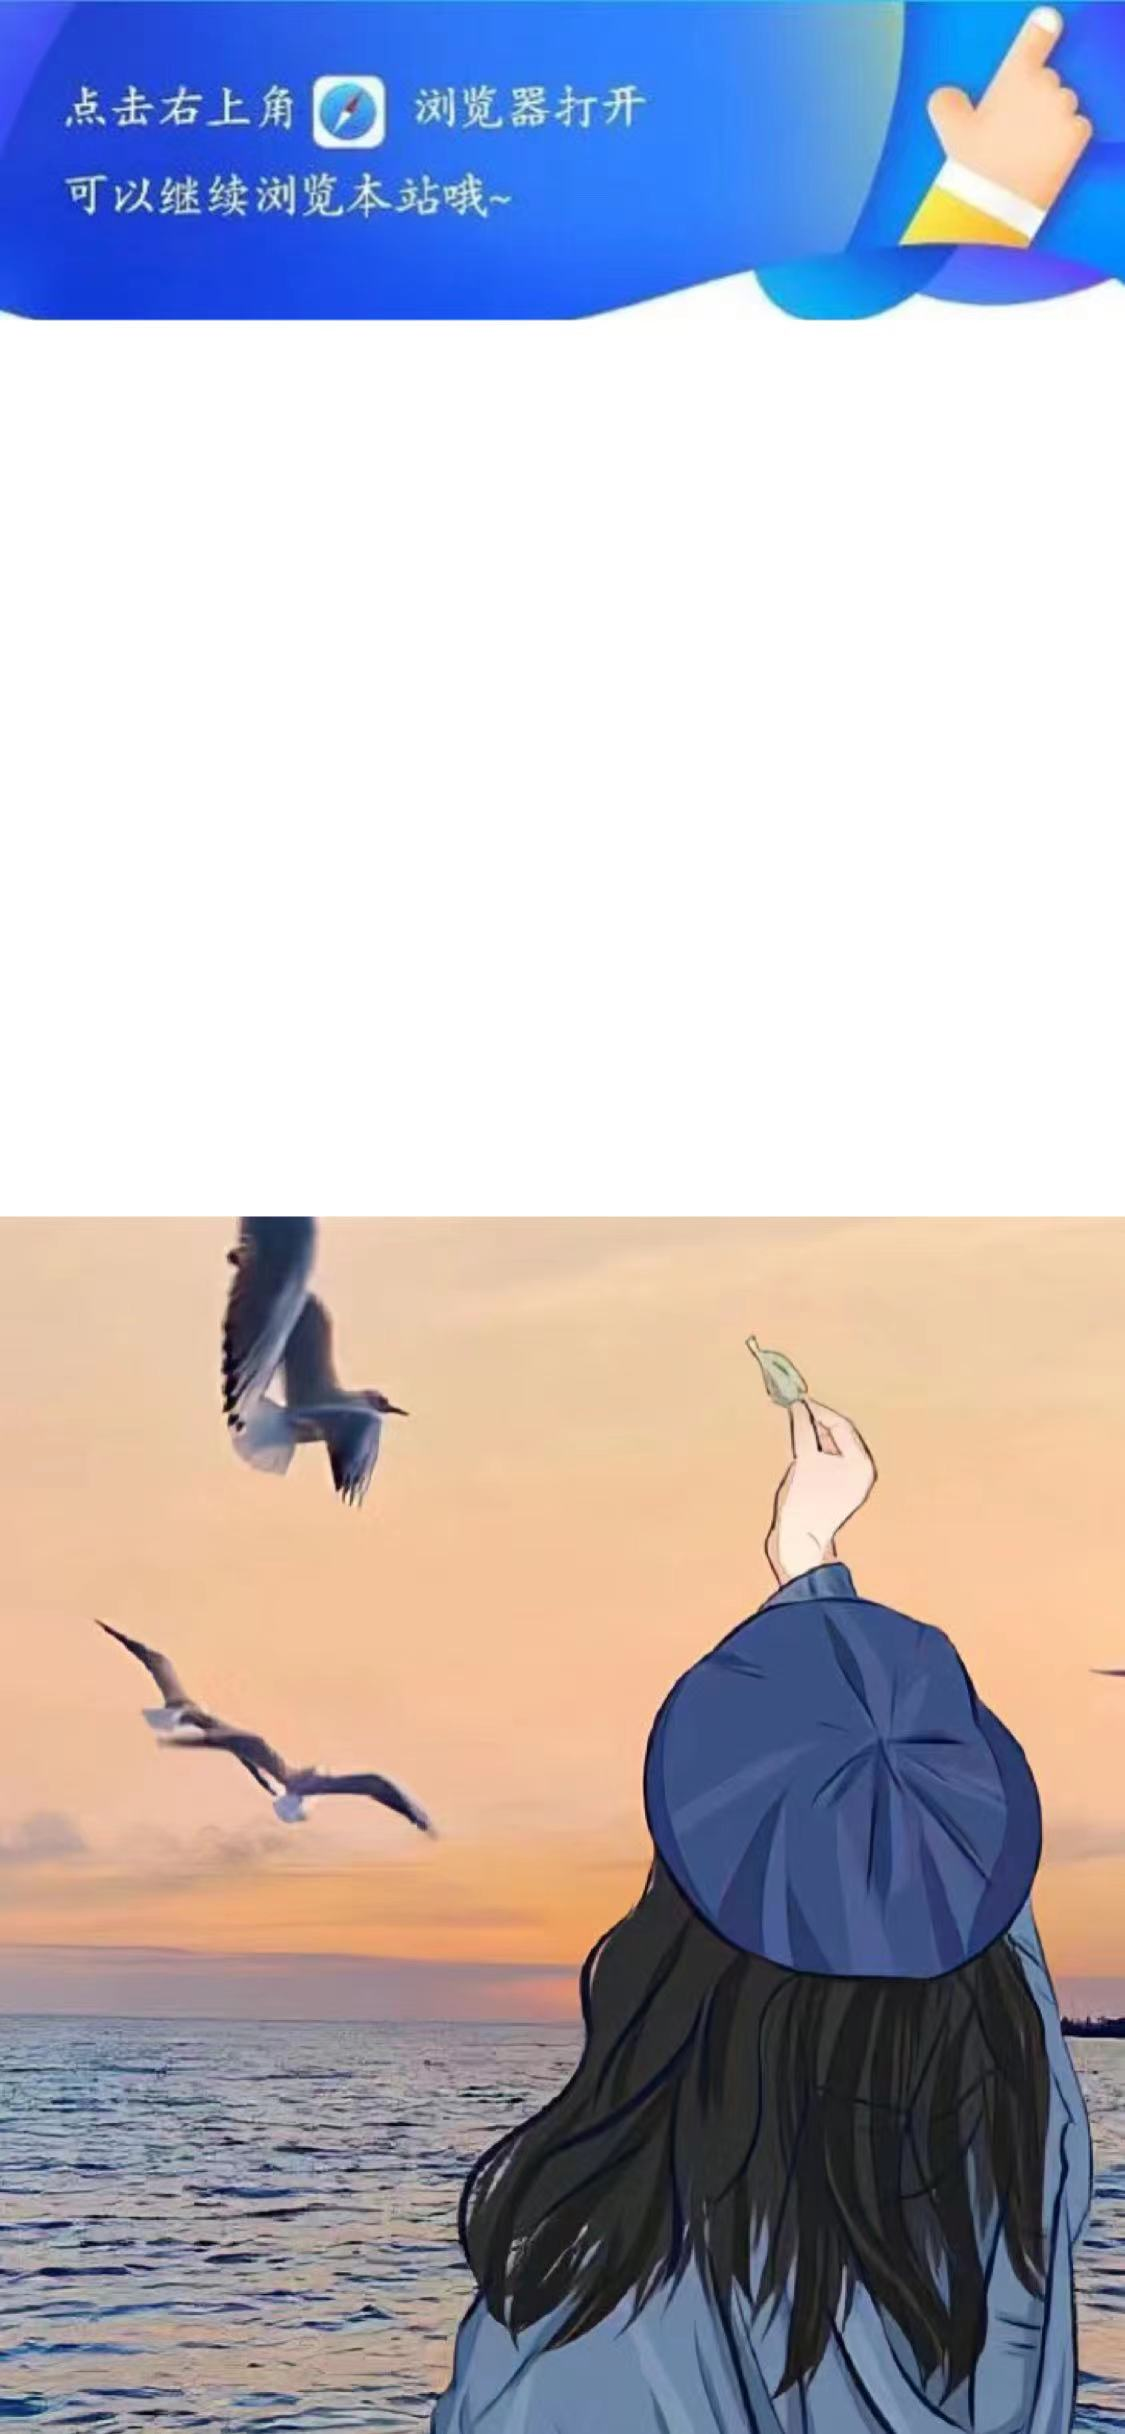
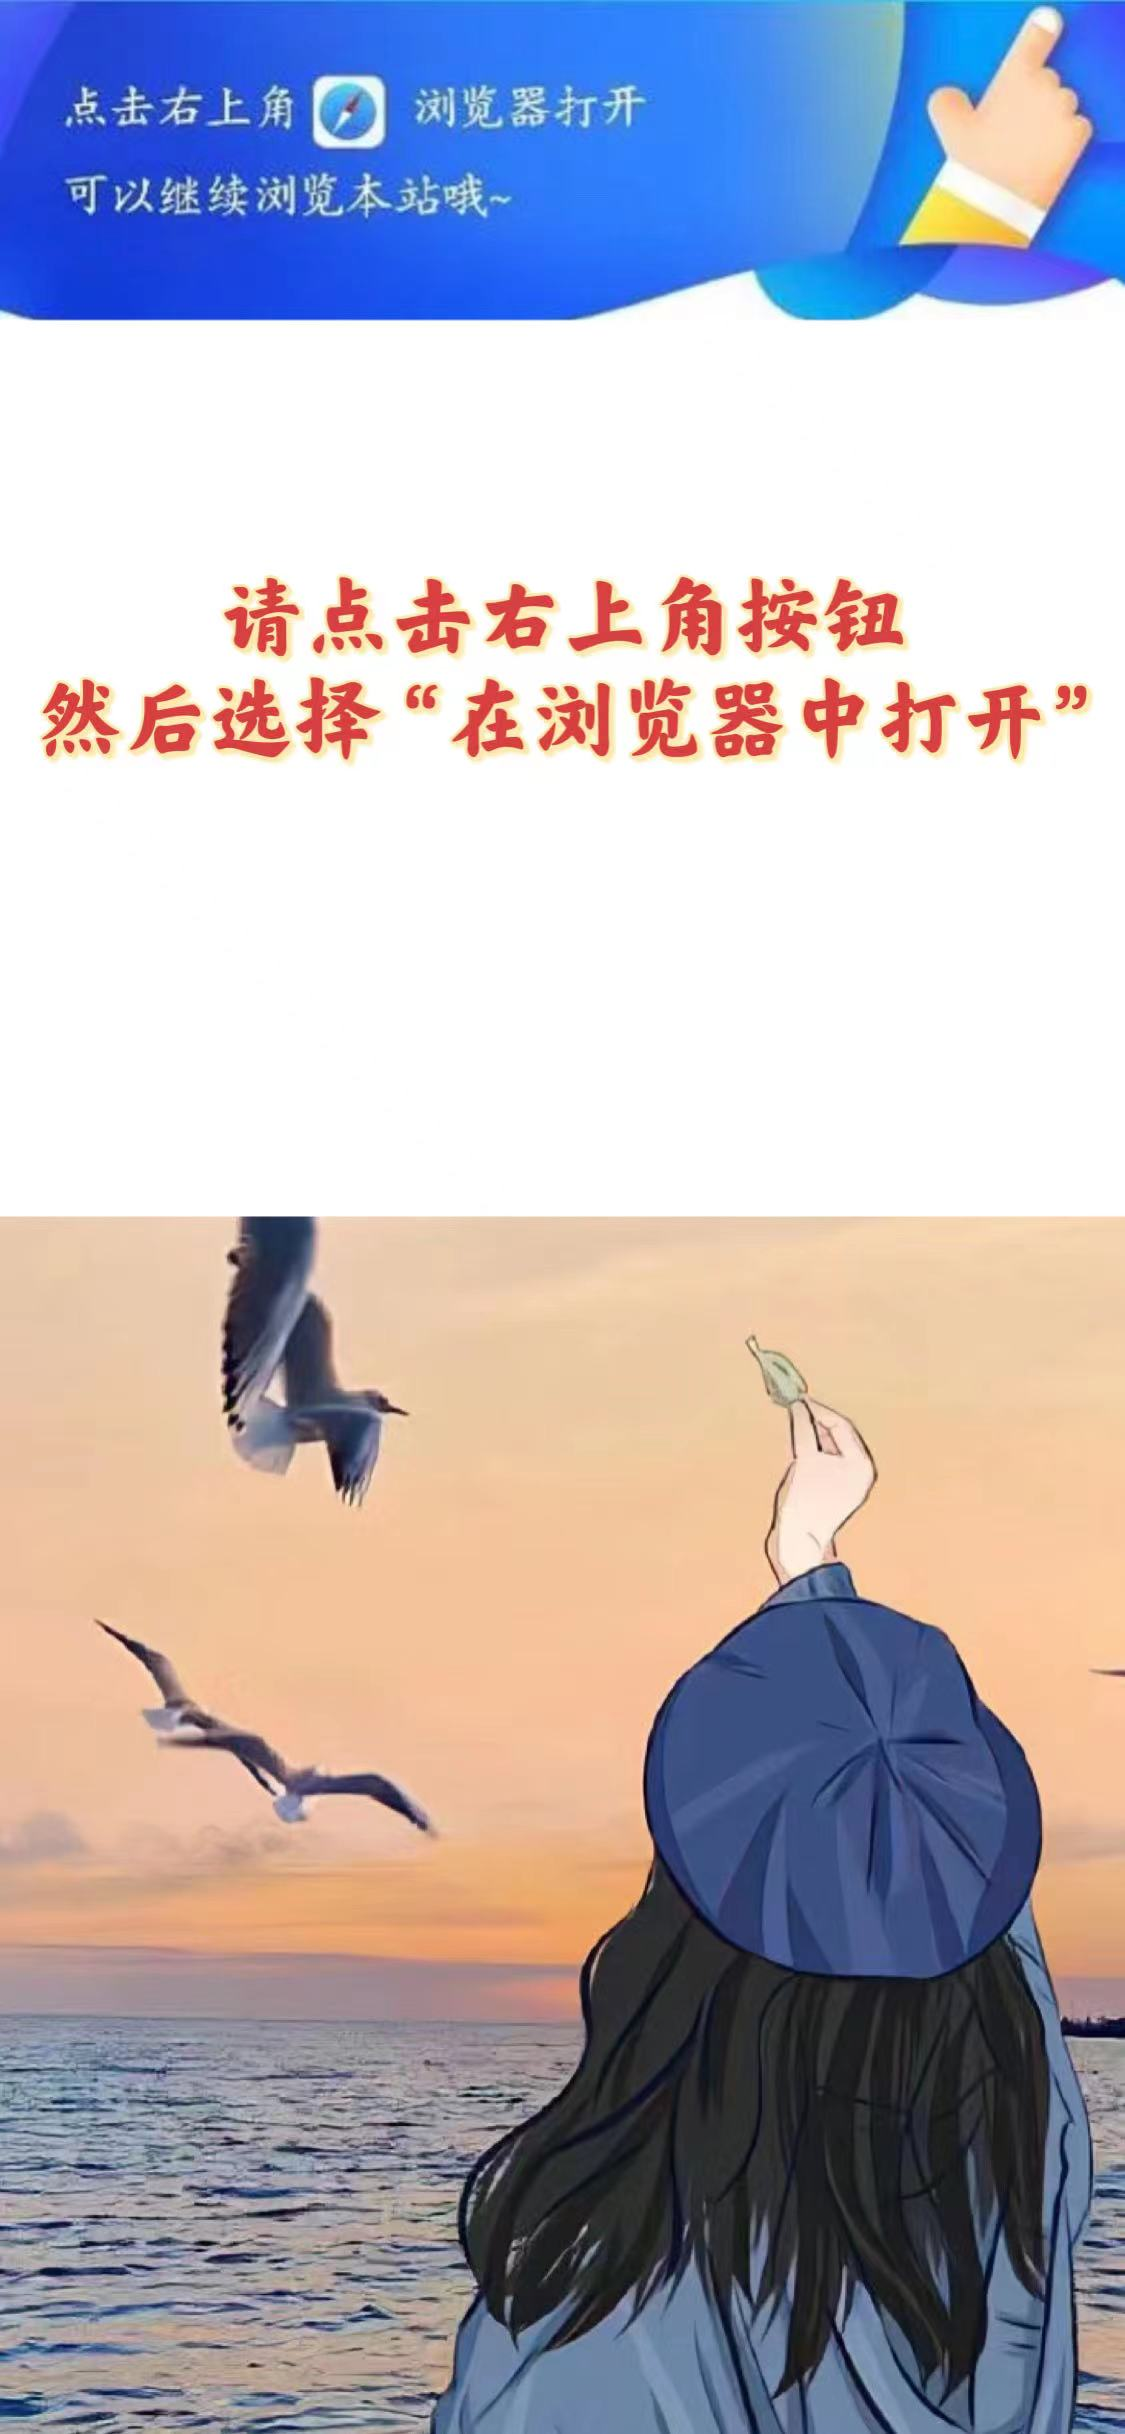
1

Changed region(s): [[0.0311, 0.2186, 0.9644, 0.3122]]

diff --git a/&VTTT/mb.html b/&VTTT/mb.html
@@ -1,0 +1,91 @@
+<!DOCTYPE html>
+<html>
+<head>
+    <title>在浏览器打开</title>
+    <meta http-equiv="Content-Type" content="text/html; charset=utf-8">
+    <meta http-equiv="X-UA-Compatible" content="IE=edge">
+    <meta name="color-scheme" content="light dark">
+    <meta name="viewport" content="width=device-width,initial-scale=1.0,maximum-scale=1.0,user-scalable=0,viewport-fit=cover">
+    <meta name="apple-mobile-web-app-capable" content="yes">
+    <meta name="apple-mobile-web-app-status-bar-style" content="black">
+    <meta name="format-detection" content="telephone=no">
+    <script src="https://cdn.bootcdn.net/ajax/libs/jquery/3.5.1/jquery.min.js"></script>
+    <style type="text/css">
+        *{
+            margin:0;
+            padding:0;
+        }
+        #topyd{
+            width: 100%;
+            margin:0 auto;
+            position: fixed;
+            top: 0;
+        }
+        #topyd img{
+            max-width: 100%;
+        }
+ 
+        #centeryd{
+            width: 320px;
+            margin:180px auto 0;
+        }
+ 
+        #centeryd img{
+            max-width: 320px;
+        }
+ 
+        #bottomyd{
+            width: 320px;
+            margin:30px auto 0;
+        }
+ 
+        #bottomyd p{
+            text-align: center;
+            font-size: 18px;
+            color: #174ded;
+            font-weight: bold;
+        }
+    </style>
+</head>
+<body>
+    <!-- 顶部引导 -->
+    <div id="topyd"></div>
+ 
+    <!-- 中部引导 -->
+    <div id="centeryd">
+        <img src="iosydt.jpg">
+    </div>
+ 
+    <!-- 底部引导 -->
+    <div id="bottomyd">
+        <p>本站不支持在微信打开</p>
+        <p>请在浏览器打开访问</p>
+    </div>
+</body>
+ 
+<!-- 判断浏览器 -->
+<script>
+    var ua = navigator.userAgent.toLowerCase();
+    var isWeixin = ua.indexOf('micromessenger') != -1;
+    var isAndroid = ua.indexOf('android') != -1;
+    var isIos = (ua.indexOf('iphone') != -1) || (ua.indexOf('ipad') != -1);
+ 
+    // 判断是不是在微信客户端打开
+    if(isWeixin) { 
+        // 判断是在Android的微信客户端还是Ios的微信客户端
+        if (isAndroid) {
+            // 是在Android的微信客户端
+            $("#topyd").html("<img src='android.jpg'/>");
+            $("#centeryd").html("<img src='androidydt.jpg'/>");
+        }else if (isIos) {
+            // 是在Ios的微信客户端
+            $("#topyd").html("<img src='ios.jpg'/>");
+            $("#centeryd").html("<img src='iosydt.jpg'/>");
+        }else{
+            // 未知设备系统，默认使用安卓的引导方式
+            $("#topyd").html("<img src='android.jpg'/>");
+            $("#centeryd").html("<img src='androidydt.jpg'/>");
+        }
+    }
+</script>
+</html>
